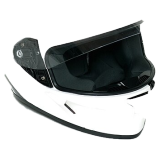
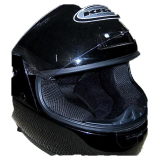
Use real photos for more objects, switch player to a car, and replace chai with Diet Coke

diff --git a/main.py b/main.py
@@ -14,7 +14,8 @@ from settings import TEXT_COLOUR, RED, GREEN, ORANGE
 
 
 def load_image(filename, size):
-    # Load one picture and stretch it to the size we need.
+    # Load one picture and shrink it to fit inside the size we need, without stretching it.
+    # It is centred on a see-through box of exactly that size.
     # If the file is missing (or cannot be read) we return None, and the game draws a box instead
     path = os.path.join("assets", filename)
     if not os.path.exists(path):
@@ -23,7 +24,12 @@ def load_image(filename, size):
         image = pygame.image.load(path).convert_alpha()
     except pygame.error:
         return None
-    return pygame.transform.scale(image, size)
+    width, height = image.get_size()
+    scale = min(size[0] / width, size[1] / height)
+    fitted = pygame.transform.smoothscale(image, (int(width * scale), int(height * scale)))
+    box = pygame.Surface(size, pygame.SRCALPHA)
+    box.blit(fitted, ((size[0] - fitted.get_width()) // 2, (size[1] - fitted.get_height()) // 2))
+    return box
 
 
 def load_images(items):
@@ -31,7 +37,7 @@ def load_images(items):
     images = {}
     for it in items:
         images[it["image"]] = load_image(it["image"], (60, 60))
-    images["scooter.png"] = load_image("scooter.png", (50, 80))
+    images["car.png"] = load_image("car.png", (50, 80))
     images["road.png"] = load_image("road.png", SCREEN)
     return images
 
@@ -110,7 +116,7 @@ def start_ride(app):
 
 
 def handle_play_key(app, key):
-    # One key tap moves the scooter exactly one lane. It cannot go past the left or right edge
+    # One key tap moves the car exactly one lane. It cannot go past the left or right edge
     player = app["ride"]["player"]
     if key == pygame.K_LEFT and player["lane"] > 0:
         player["lane"] -= 1
@@ -151,7 +157,7 @@ def update_play(app, frame_ms):
         ride["active"].append(game.spawn(choice, zone))
         ride["last_spawn"] = now
 
-    # Step 5: while chai is active the traffic moves at half speed
+    # Step 5: while Diet Coke is active the traffic moves at half speed
     slow_factor = SLOW_FACTOR if now < player["slow_until"] else 1
 
     # Step 6: move the items, add the points for anything we dodged, then check for hits
@@ -204,16 +210,16 @@ def draw_item(screen, images, fonts, it):
         screen.blit(image, rect)
 
 
-def draw_scooter(screen, images, fonts, player):
-    # The scooter sits in the player's lane, at the bottom of the screen
+def draw_car(screen, images, fonts, player):
+    # The car sits in the player's lane, at the bottom of the screen
     rect = pygame.Rect(LANES[player["lane"]] - 25, PLAYER_Y, 50, 80)
-    image = images.get("scooter.png")
+    image = images.get("car.png")
     if image is None:
-        draw_placeholder(screen, fonts["tiny"], "scooter", RED, rect)
+        draw_placeholder(screen, fonts["tiny"], "car", RED, rect)
     else:
         screen.blit(image, rect)
 
-    # The helmet shield is shown as a green ring around the scooter
+    # The helmet shield is shown as a green ring around the car
     if player["shield"]:
         pygame.draw.rect(screen, GREEN, rect.inflate(16, 16), width=3, border_radius=12)
 
@@ -237,18 +243,18 @@ def draw_hud(screen, fonts, ride, now):
     if player["shield"]:
         status.append("Helmet ON")
     if now < player["slow_until"]:
-        status.append("Chai: slow traffic")
+        status.append("Diet Coke: slow traffic")
     draw_text_right(screen, fonts["small"], "  ".join(status), GREEN, SCREEN_W - 10, 34)
 
 
 def draw_play(screen, fonts, images, app):
-    # Draw the road, the items, the scooter and the HUD, in that order, so the scooter is on top
+    # Draw the road, the items, the car and the HUD, in that order, so the car is on top
     ride = app["ride"]
     now = pygame.time.get_ticks()
     draw_road(screen, images, ride["scroll"])
     for it in ride["active"]:
         draw_item(screen, images, fonts, it)
-    draw_scooter(screen, images, fonts, ride["player"])
+    draw_car(screen, images, fonts, ride["player"])
     draw_hud(screen, fonts, ride, now)
 
     # The "Entering ..." message is shown for a short time after the zone changes

diff --git a/game.py b/game.py
@@ -73,7 +73,7 @@ def move_items(active, slow_factor, run):
     # Points earned by dodging this frame. The caller adds them to the run's total.
     dodge_points = 0
     for it in active:
-        # Move the item down. slow_factor is 0.5 while chai is active, otherwise 1
+        # Move the item down. slow_factor is 0.5 while Diet Coke is active, otherwise 1
         it["y"] += it["speed"] * slow_factor
 
         if it["y"] > SCREEN_H:
@@ -88,7 +88,7 @@ def move_items(active, slow_factor, run):
 
 
 def check_hits(player, active, run):
-    # The scooter's box: 50 pixels wide, 80 tall, in the player's lane at the bottom
+    # The car's box: 50 pixels wide, 80 tall, in the player's lane at the bottom
     player_rect = pygame.Rect(LANES[player["lane"]] - 25, PLAYER_Y, 50, 80)
 
     # Keep only the items we did not touch. Touched items are handled and then left out.
@@ -128,7 +128,7 @@ def apply_powerup(player, effect):
     if effect == "shield":
         player["shield"] = True
 
-    # Chai: traffic slows down until the time in slow_until
+    # Diet Coke: traffic slows down until the time in slow_until
     elif effect == "slow":
         player["slow_until"] = now + SLOW_MS
 

diff --git a/settings.py b/settings.py
@@ -13,8 +13,8 @@ FPS = 60
 # Centre x position (left to right) of each of the 4 lanes.
 LANES = (110, 210, 310, 410)     # tuple: centre x of each lane
 
-# The height (y position) where the top of the scooter sits.
-PLAYER_Y = 640                   # top of the scooter
+# The height (y position) where the top of the car sits.
+PLAYER_Y = 640                   # top of the car
 
 # Speed in pixels per frame, before the zone and item multipliers are applied.
 BASE_SPEED = 5                   # pixels per frame before multipliers
@@ -23,8 +23,8 @@ BASE_SPEED = 5                   # pixels per frame before multipliers
 START_LIVES = 3
 MAX_LIVES = 5
 
-# Chai power-up: how long it lasts (in milliseconds) and how much it slows traffic.
-SLOW_MS = 4000                   # chai lasts 4 seconds
+# Diet Coke power-up: how long it lasts (in milliseconds) and how much it slows traffic.
+SLOW_MS = 4000                   # Diet Coke slows traffic for 4 seconds
 SLOW_FACTOR = 0.5                # 0.5 means things move at half speed
 
 # How long the "Entering Dharampeth!" message stays on screen, in milliseconds.

diff --git a/CREDITS.md b/CREDITS.md
@@ -1,21 +1,22 @@
 # Image credits
 
-The pictures in `assets/` come from Wikimedia Commons. They were cut out of the original photos.
-The barricade is a drawing made for this project, not a photo, so it is not in the table.
+The pictures in `assets/` are real photos from Wikimedia Commons, with the background removed.
+Each one links to its original page, where the author and license are shown.
 
-| Game picture | Original photo | Author | License |
-|---|---|---|---|
-| `auto.png` | [Auto-rickshaw Bajaj.jpg](https://commons.wikimedia.org/wiki/File:Auto-rickshaw_Bajaj.jpg) | Oleg Yunakov | CC BY-SA 4.0 |
-| `bus.png` | [EAGLE Bus.jpg](https://commons.wikimedia.org/wiki/File:EAGLE_Bus.jpg) | Md.Sajid Mahamud 1 | CC BY-SA 3.0 |
-| `cow.png` | [IndianCow&Calf.jpg](https://commons.wikimedia.org/wiki/File:IndianCow%26Calf.jpg) | Staraeditor | CC BY 4.0 |
-| `dog.png` | [Stray dog in the streets of Pune.jpg](https://commons.wikimedia.org/wiki/File:Stray_dog_in_the_streets_of_Pune.jpg) | AVasanth (WMF) | CC BY 4.0 |
-| `helmet.png` | [Full-Face Helmet 9274.jpg](https://commons.wikimedia.org/wiki/File:Full-Face_Helmet_9274.jpg) | Ashley Pomeroy | CC BY-SA 4.0 |
-| `petrol.png` | [Benzinkanister 5 Liter.jpg](https://commons.wikimedia.org/wiki/File:Benzinkanister_5_Liter.jpg) | Alutal | CC BY-SA 4.0 |
-| `rickshaw.png` | [Becak di kota jogja.jpg](https://commons.wikimedia.org/wiki/File:Becak_di_kota_jogja.jpg) | Andreanrama | CC BY-SA 4.0 |
-| `chai.png` | [Kulhad Chai 3.jpg](https://commons.wikimedia.org/wiki/File:Kulhad_Chai_3.jpg) | Gannu03 | CC BY-SA 4.0 |
-| `pothole.png` | [Potholes on road.jpg](https://commons.wikimedia.org/wiki/File:Potholes_on_road.jpg) | KEmel49 | CC BY-SA 4.0 |
-| `scooter.png` | [Honda Activa 2006 model.jpg](https://commons.wikimedia.org/wiki/File:Honda_Activa_2006_model.jpg) | Anant77 | CC BY-SA 4.0 |
+| Game picture | Original photo | Author | License | Changes |
+|---|---|---|---|---|
+| `auto.png` | [Auto Rickshaws outside Purana Qila, Delhi.jpg](https://commons.wikimedia.org/wiki/File:Auto_Rickshaws_outside_Purana_Qila%2C_Delhi.jpg) | Slyronit | CC BY-SA 4.0 | Background removed |
+| `bus.png` | [City Bus Hyd.jpg](https://commons.wikimedia.org/wiki/File:City_Bus_Hyd.jpg) | Nikhilb239 | CC BY-SA 4.0 | Background removed |
+| `car.png` | [A Toyota Yaris hatchback in Taiwan.jpg](https://commons.wikimedia.org/wiki/File:A_Toyota_Yaris_hatchback_in_Taiwan.jpg) | Cars in Taiwan | CC BY-SA 4.0 | Rear view |
+| `cow.png` | [Gir 02.JPG](https://commons.wikimedia.org/wiki/File:Gir_02.JPG) | Pavanaja | CC BY-SA 3.0 | Background removed |
+| `diet_coke.png` | [Diet Coke Can.jpg](https://commons.wikimedia.org/wiki/File:Diet_Coke_Can.jpg) | Joe Anderson | CC BY-SA 2.0 | Background removed |
+| `dog.png` | [Stray dog in the streets of Pune.jpg](https://commons.wikimedia.org/wiki/File:Stray_dog_in_the_streets_of_Pune.jpg) | AVasanth (WMF) | CC BY 4.0 | Background removed |
+| `helmet.png` | [BlackFullCoverageMotorcycleHelmet.jpg](https://commons.wikimedia.org/wiki/File:BlackFullCoverageMotorcycleHelmet.jpg) | User Amoore on en.wikipedia | CC BY-SA 3.0 | Background removed |
+| `petrol.png` | [Benzinkanister 5 Liter.jpg](https://commons.wikimedia.org/wiki/File:Benzinkanister_5_Liter.jpg) | Alutal | CC BY-SA 4.0 | Colour changed from green to red |
+| `pothole.png` | [Broken Roads in India's Capital New Delhi.jpg](https://commons.wikimedia.org/wiki/File:Broken_Roads_in_India%27s_Capital_New_Delhi.jpg) | Rrthakur22 | CC BY-SA 4.0 | Cropped to a circle |
+| `rickshaw.png` | [Becak di kota jogja.jpg](https://commons.wikimedia.org/wiki/File:Becak_di_kota_jogja.jpg) | Andreanrama | CC BY-SA 4.0 | Background removed |
 
-`barricade.png` is a drawing made for this project, not a photo. `rickshaw.png` is a becak (an Indonesian cycle rickshaw), the closest clean photo found. The photos were cut out with GrabCut, so the edges are approximate.
+`barricade.png` is a drawing made for this project, not a photo.
 
-Licenses CC BY and CC BY-SA need credit to the author, a link to the license, and (for BY-SA) the same license for any changes.
+CC BY and CC BY-SA licenses require credit to the author and a link to the license.
+CC BY-SA also requires that changed versions are shared under the same license, which the recoloured petrol can and the cropped pothole are.
